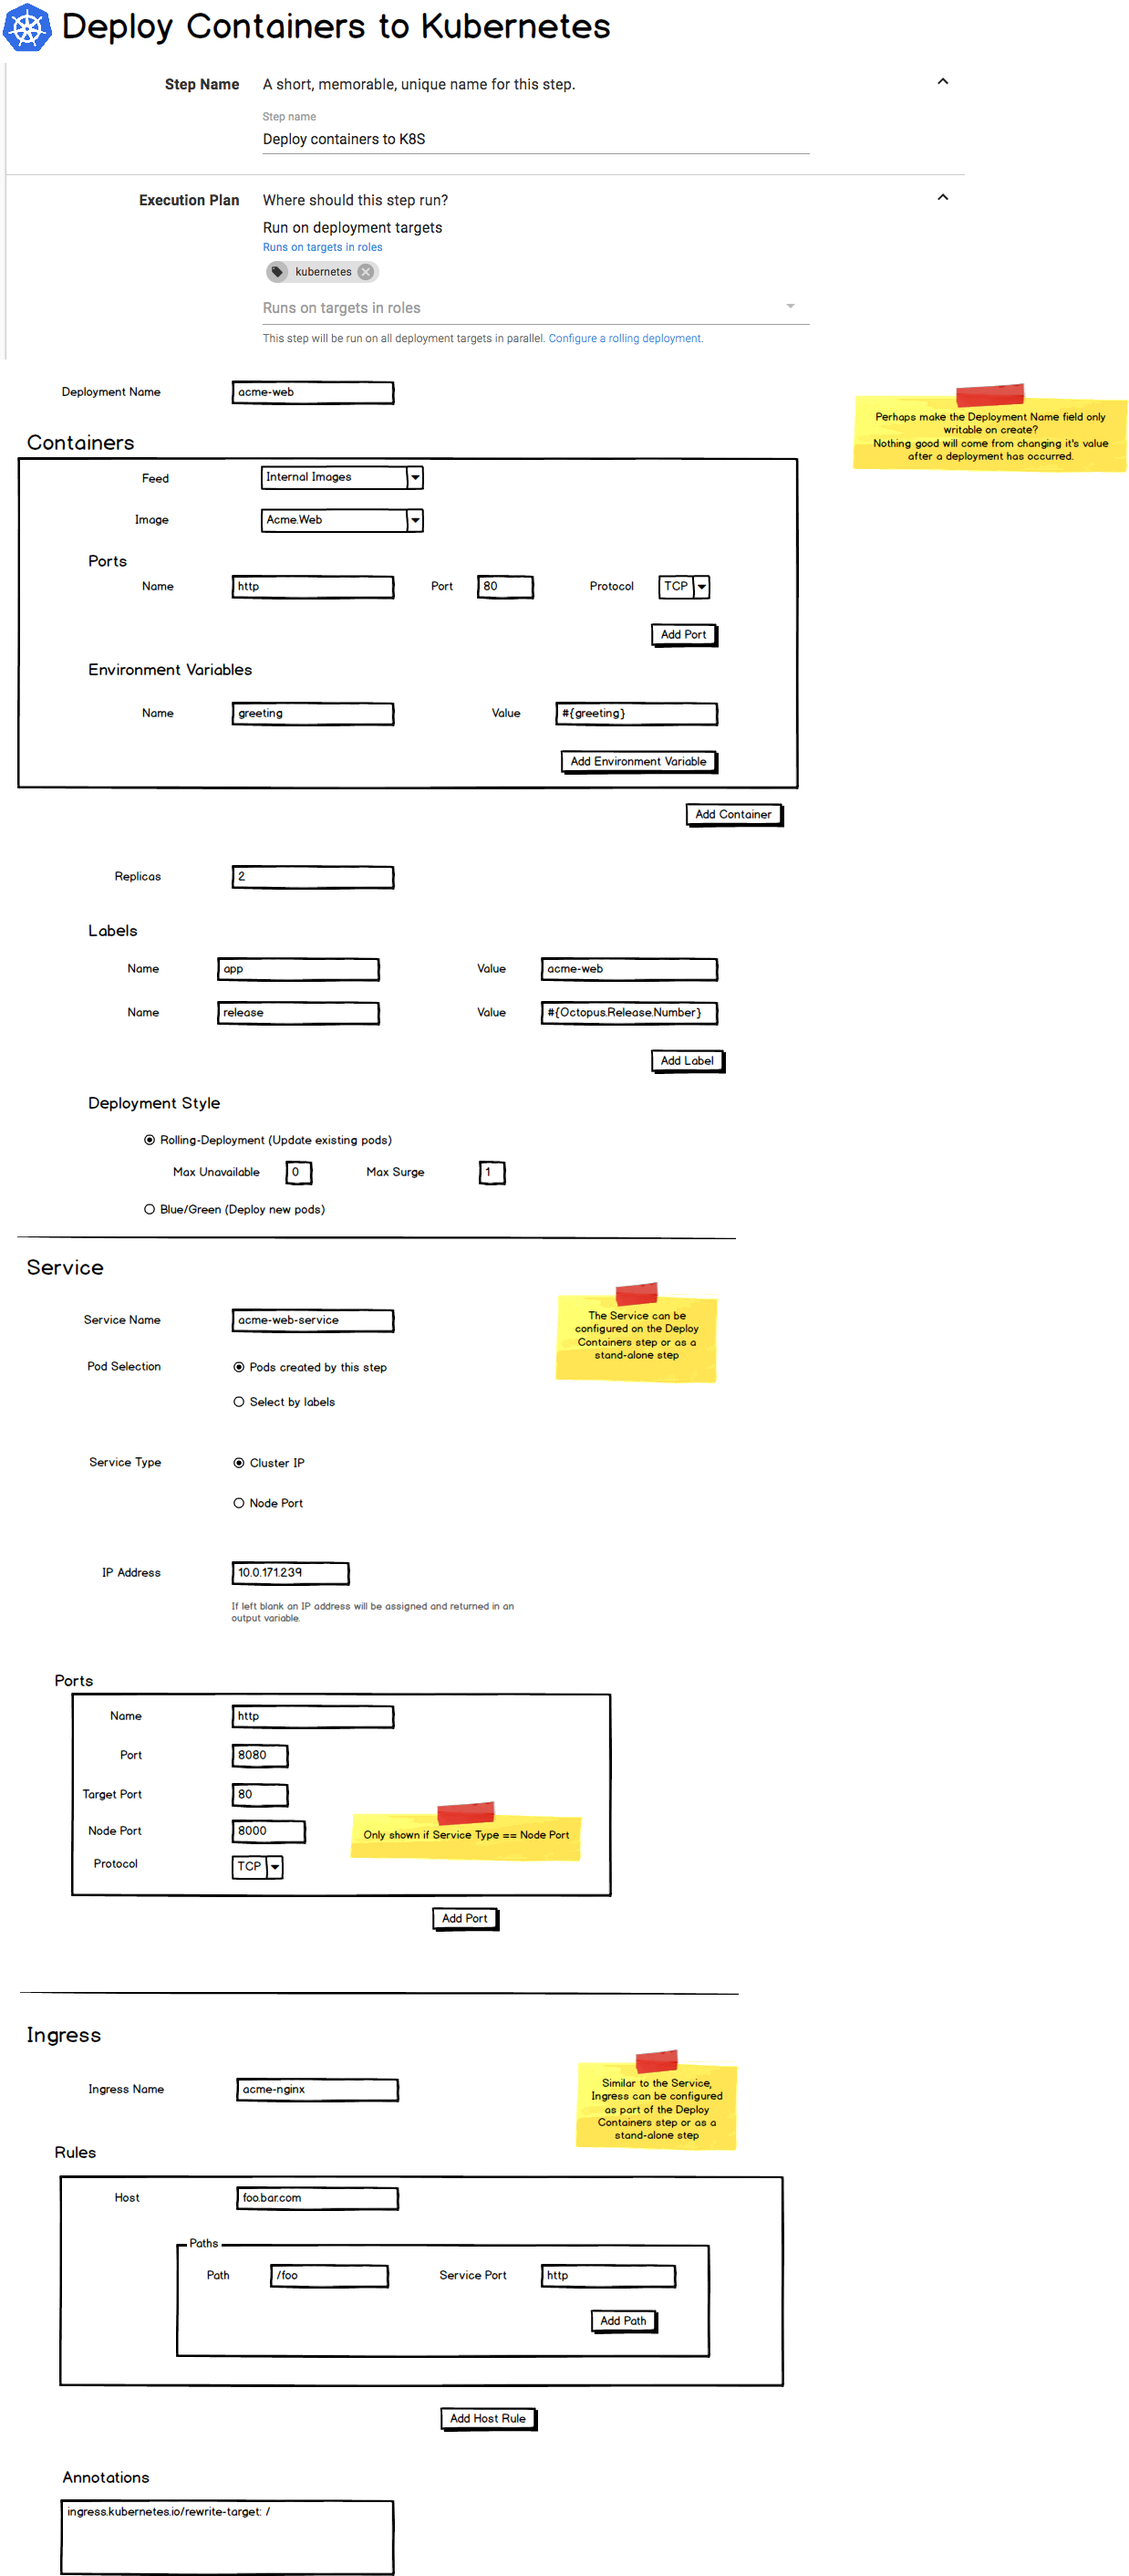
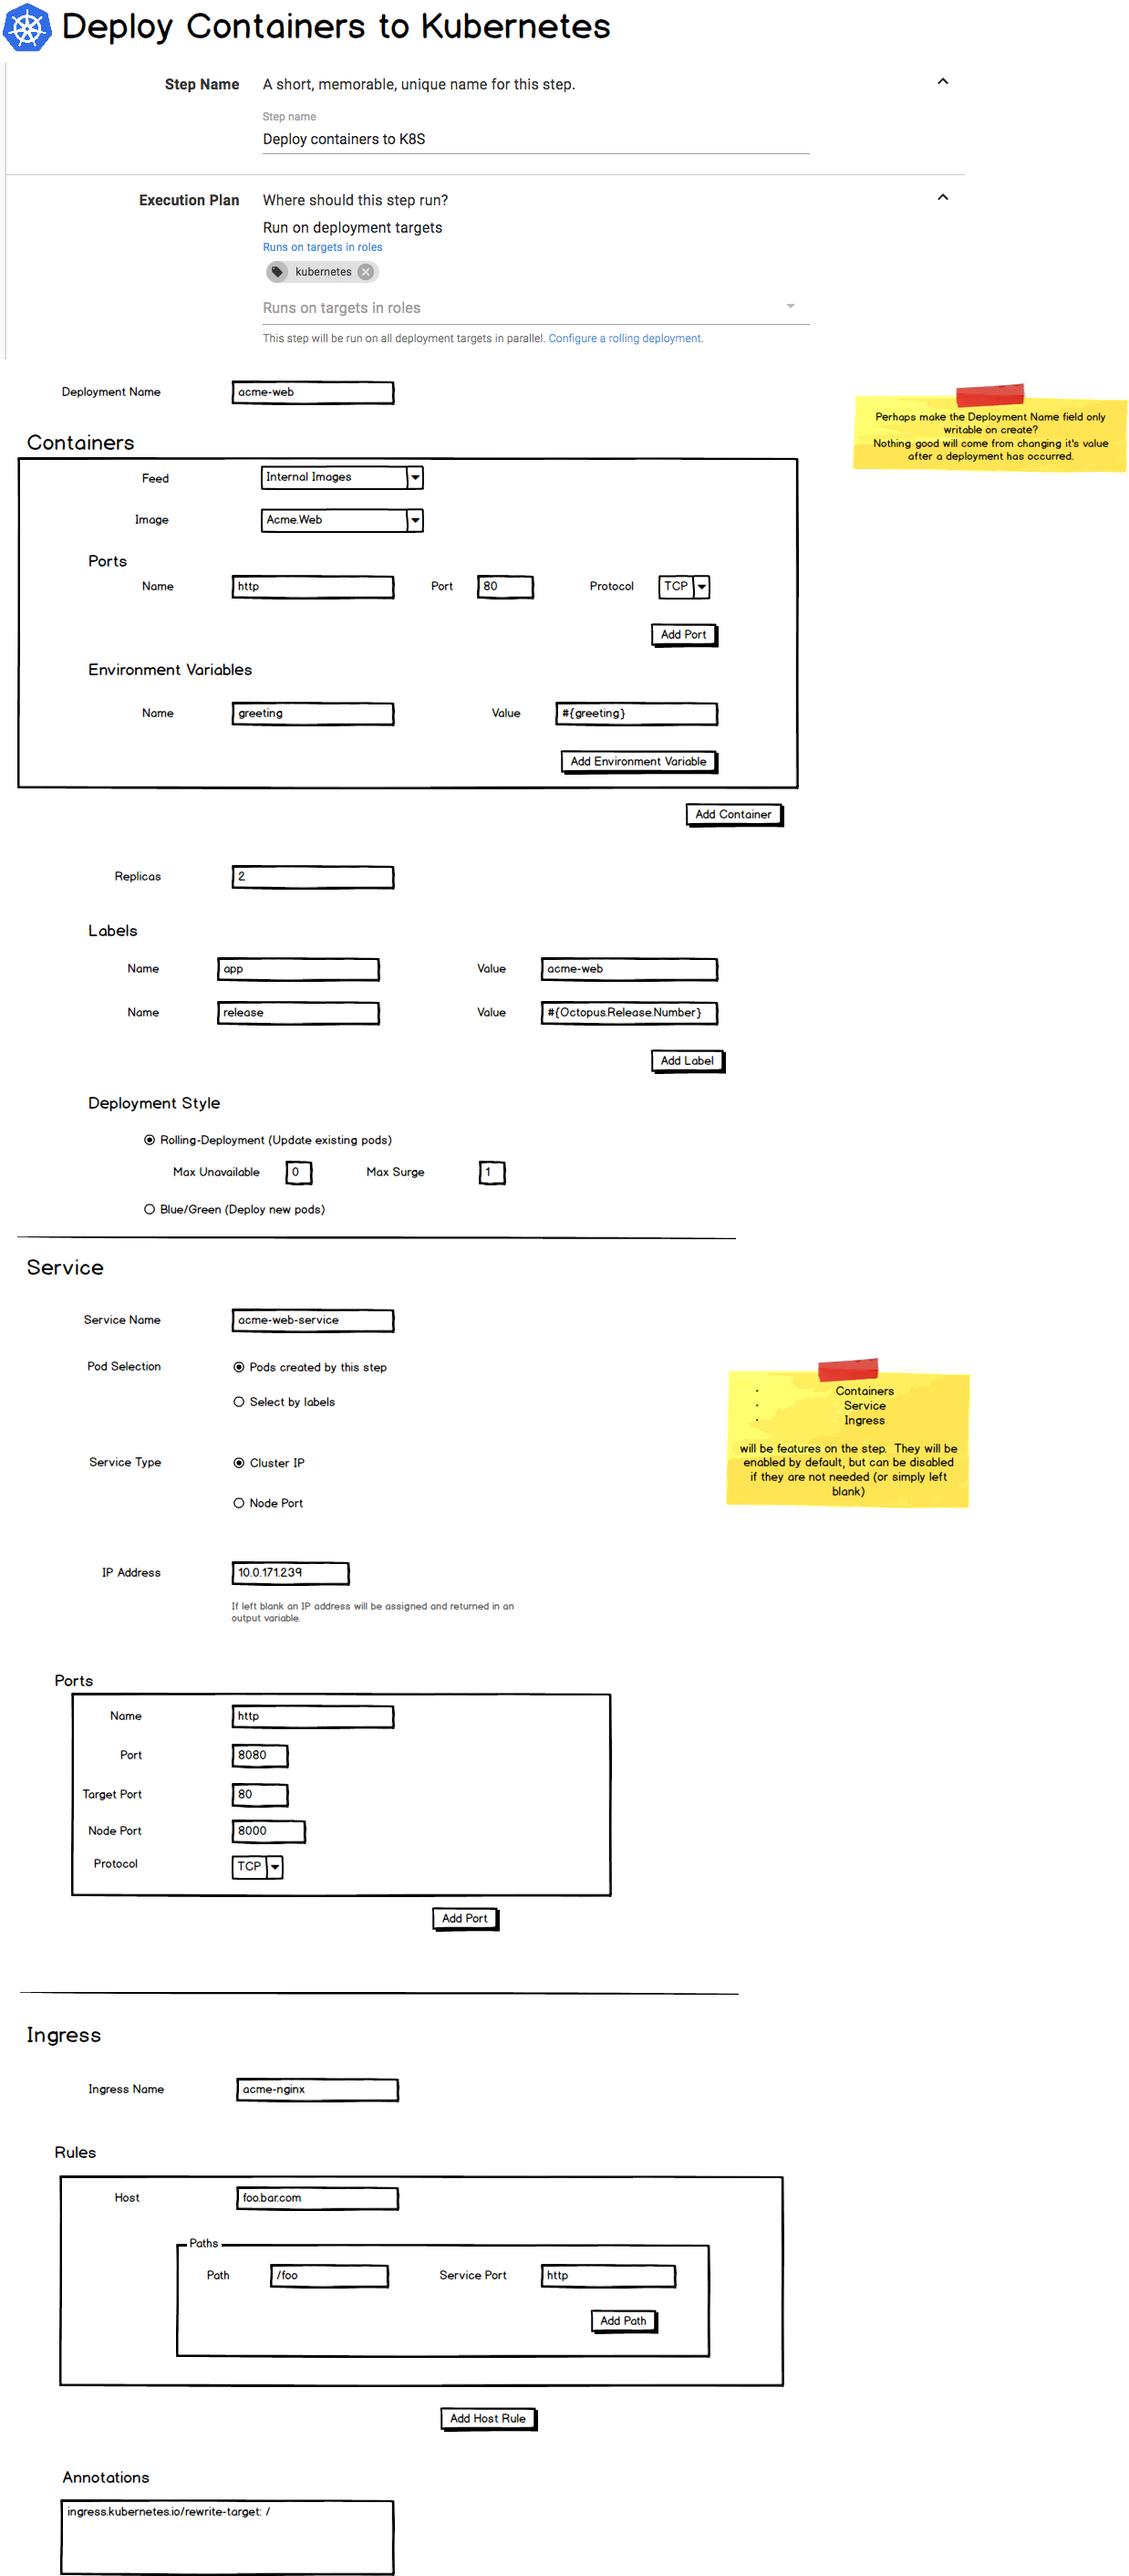
Added Deploy Containers to Kubernetes step

Changed region(s): [[0.4911, 0.4988, 0.8595, 0.5923], [0.3069, 0.6858, 0.5218, 0.7481], [0.4911, 0.7793, 0.6753, 0.8417]]

diff --git a/Kubernetes/index.md b/Kubernetes/index.md
@@ -2,8 +2,36 @@
 
 Support for Kubernetes in Octopus Deploy will take the form of:
 
-- New Steps (Kubernetes Apply and kubectl Script) 
-- New Target (Kubernetes Cluster)
+- [New Target (Kubernetes Cluster)](#kubernetes-cluster-target)
+- New Steps:
+   - [Deploy Containers to Kubernetes](#deploy-containers-to-kubernetes-step)
+   - [Apply a Kubernetes Template](#apply-a-kubernetes-template-step) 
+   - [Run a Kubernetes Script](#run-a-kubernetes-script-step)
+
+The steps progress along the User-Friendly <-> Flexible spectrum.  
+
+Starting with the most user-friendly is the Deploy Containers to Kubernetes step.  It can be thought of in a similar way to the _Deploy IIS_ or _Deploy Azure Web App_ steps.  It provides a (hopefully) friendly UI, but simply can't expose everything that can be configured in Kubernetes.   
+
+Next is the Apply a Kubernetes Template step.  This is conceptually similar to the CloudFormation or Azure ResourceManager template steps.  It allows the user to supply a declarative template to Kubernetes.  
+
+Finally, the Run a Kubernetes Script step allows the user to write their own scripts, and Octopus will ensure the `kubectl` command-line tool is available and authenticated against the appropriate cluster.  This provides full-power, but not a particularly nice user experience (unless you enjoy writing bash scripts, in which case good for you).
+
+## Development Priority
+
+The first priority phase is:
+
+- Kubernetes Cluster Target
+- Apply a Kubernetes Template Step 
+- Run a Kubernetes Script Step
+
+The seconds priority phase is:
+
+- Deploy Containers to Kubernetes step
+
+The reasoning for this is that the first phase enables all scenarios, and provides a path for anyone currently using Kubernetes to migrate their workflow into Octopus.   
+
+The second phase provides a more friendly path for getting started with Kubernetes.  There will however be scenarios that are not achievable using the Deploy Containers to Kubernetes step. 
+
 
 ## Kubernetes Cluster Target
 
@@ -29,8 +57,11 @@ This will support dividing a single Kubernetes cluster into multiple logical env
 
 The namespace configured will be written into the Kubernetes context established when connecting to the cluster.  
 
+## Deploy Containers to Kubernetes Step
 
-## Kubernetes Apply Step
+![Deploy Containers Step](ui-mocks/deploy-containers-step.png "width=500")
+
+## Apply a Kubernetes Template Step
 
 Kubernetes supports both [declarative and imperative modes of object management](https://kubernetes.io/docs/concepts/overview/object-management-kubectl/overview/#management-techniques).  
 
@@ -98,11 +129,11 @@ The output from the `kubectl apply` command will be captured as an output variab
 
 The output format can be specified (see the `output` flag of the [kubectl apply cmd](https://kubernetes.io/docs/reference/generated/kubectl/kubectl-commands#apply)). One of the options is JSON (which can be further customized using the `jsonpath` option). Using the JSON properties functionality which is available in Octostache, this should be useful.
 
-## kubectl Script Step
+### Run a Kubernetes Script Step 
 
 There are many other [Kubernetes commands](https://kubernetes.io/docs/reference/generated/kubectl/kubectl-commands) you may wish to execute, other than `apply`.  For example: [deleting resources](https://kubernetes.io/docs/reference/generated/kubectl/kubectl-commands#delete), [scaling](https://kubernetes.io/docs/reference/generated/kubectl/kubectl-commands#scale), etc.
 
-We will enable these by adding a new flavor of a Run a Script step: _Run a kubectl Script_. 
+We will enable these by adding a new flavor of a Run a Script step: _Run a Kubernetes Script_. 
 
 This step will allow you to write your own scripts, and we ensure the `kubectl` command line is available and authenticated against the Kubernetes cluster the step is targetting.  This is conceptually similiar to our [Run an AWS CLI Script](https://octopus.com/docs/deploying-applications/custom-scripts/aws-cli-scripts) or the  [Run an Azure PowerShell Script](https://octopus.com/docs/deploying-applications/azure-deployments/running-azure-powershell) steps, which authenticate against and provide the SDK for AWS and Azure respectively. 
 
